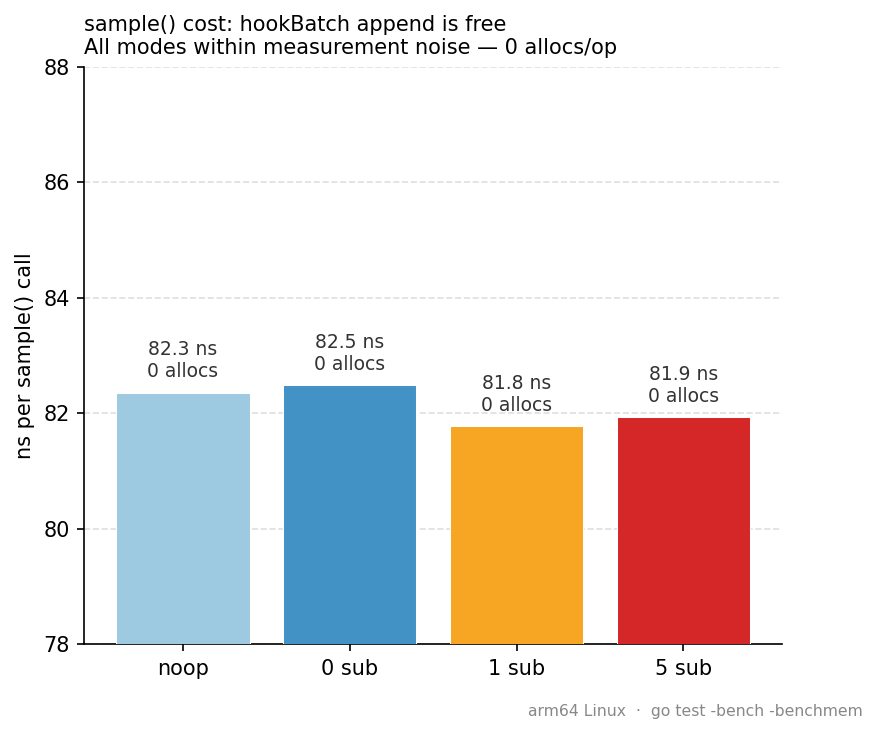
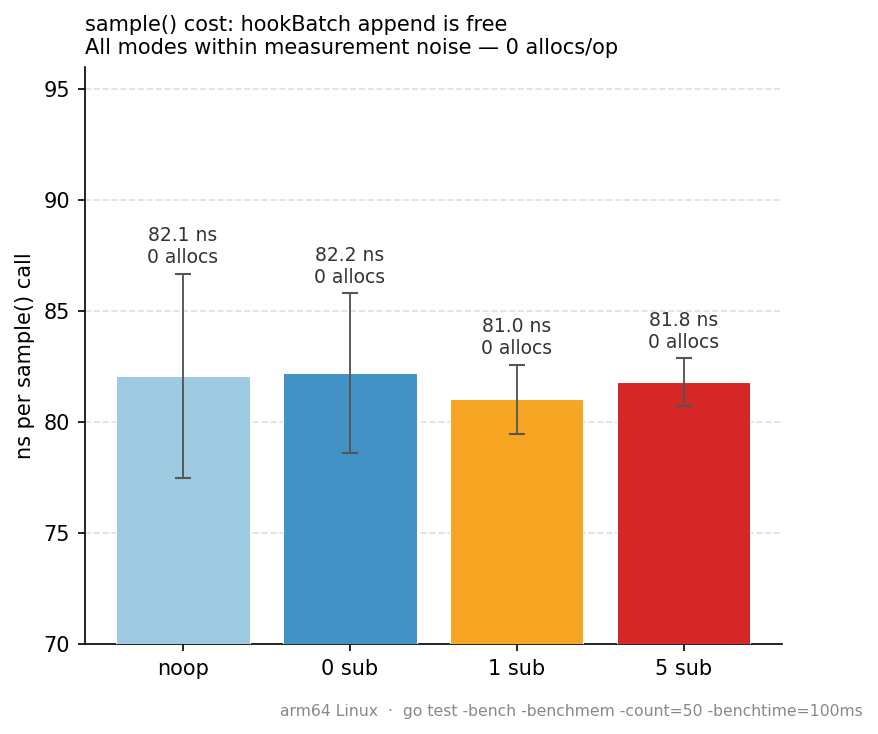
docs(pkg/hook): regenerate charts from 50-run CSV with error bars
- Data now sourced from bench_results.csv (50 runs, means ± stddev)
- Error bars shown on all bars
- overhead_b: legend moved to lower-right to avoid overlapping bar labels

diff --git a/pkg/hook/plot_overhead.py b/pkg/hook/plot_overhead.py
@@ -3,16 +3,29 @@ Generate benchmark overhead charts for pkg/hook pipeline observation.
 
 Run: uv run --with matplotlib python3 pkg/hook/plot_overhead.py
 Output: pkg/hook/overhead_a.png, overhead_b.png, overhead_c.png
+
+Data source: bench_results.csv (50 runs, arm64 Linux, benchtime=100ms)
 """
 
-import os
+import os, csv, statistics
+from collections import defaultdict
 import matplotlib.pyplot as plt
+import matplotlib.ticker as ticker
 import numpy as np
 
 HERE = os.path.dirname(os.path.abspath(__file__))
 
+# ── Load CSV ──────────────────────────────────────────────────────────────────
+_raw = defaultdict(list)
+with open(os.path.join(HERE, "bench_results.csv")) as f:
+    for row in csv.DictReader(f):
+        _raw[row["benchmark"]].append(float(row["ns_per_op"]))
+
+def mean(key):  return statistics.mean(_raw[key])
+def std(key):   return statistics.stdev(_raw[key]) if len(_raw[key]) > 1 else 0
+
 # ── Colour palette ────────────────────────────────────────────────────────────
-C_ZERO   = "#9ecae1"   # light blue  — zero/noop (idle)
+C_ZERO   = "#9ecae1"   # light blue  — noop hook
 C_0SUB   = "#4292c6"   # mid blue    — 0 subscribers
 C_1SUB   = "#f6a623"   # amber       — 1 subscriber
 C_5SUB   = "#d62728"   # red         — 5 subscribers
@@ -20,30 +33,46 @@ C_PARSE  = "#6baed6"   # blue-grey   — parse stage
 C_SAMPLE = "#74c476"   # green       — sample() stage
 C_HOOK   = "#fd8d3c"   # orange      — hook overhead
 
-# ── Benchmark data (arm64 Linux, go test -bench -benchmem -benchtime=500ms) ──
-# TimeSampler: amortised per-sample cost from batch32_publish.
-ts_noop = (2626 - 2626) / 32   # 0.0 ns
-ts_0sub = (2682 - 2626) / 32   # 1.75 ns
-ts_1sub = (2827 - 2626) / 32   # 6.3 ns
-ts_5sub = (3363 - 2626) / 32   # 23.0 ns
+SUBTITLE = "arm64 Linux  ·  go test -bench -benchmem -count=50 -benchtime=100ms"
 
-# no-agg worker: overhead per batch of 32.
-na_noop = 2.17 - 2.14          # ≈ 0 ns
-na_0sub = 2.17 - 2.14
-na_1sub = 1544 - 2.14          # 1542 ns
-na_5sub = 2300 - 2.14          # 2298 ns
+# ── Derived values ────────────────────────────────────────────────────────────
+# TimeSampler: amortised per-sample overhead from batch32_publish (batch=32).
+BATCH = 32
+_ts_base = mean("TimeSamplerHook/batch32_publish/noop_hook")
+ts_noop = 0.0
+ts_0sub = (mean("TimeSamplerHook/batch32_publish/0sub")   - _ts_base) / BATCH
+ts_1sub = (mean("TimeSamplerHook/batch32_publish/1sub")   - _ts_base) / BATCH
+ts_5sub = (mean("TimeSamplerHook/batch32_publish/5sub")   - _ts_base) / BATCH
 
-# CheckSampler: overhead per check metric sample.
-cs_noop = 2.17 - 2.14
-cs_0sub = 2.17 - 2.14
-cs_1sub = 405  - 2.14          # 403 ns
-cs_5sub = 975  - 2.14          # 973 ns
+ts_0sub_err = std("TimeSamplerHook/batch32_publish/0sub")   / BATCH
+ts_1sub_err = std("TimeSamplerHook/batch32_publish/1sub")   / BATCH
+ts_5sub_err = std("TimeSamplerHook/batch32_publish/5sub")   / BATCH
 
-# DogStatsD per-point CPU breakdown (4 tags).
+# no-agg worker: overhead per batch.
+_na_base = mean("NoAggWorkerHook/batch32/noop_hook")
+na_noop = 0.0
+na_0sub = mean("NoAggWorkerHook/batch32/0sub")   - _na_base
+na_1sub = mean("NoAggWorkerHook/batch32/1sub")   - _na_base
+na_5sub = mean("NoAggWorkerHook/batch32/5sub")   - _na_base
+
+na_0sub_err = std("NoAggWorkerHook/batch32/0sub")
+na_1sub_err = std("NoAggWorkerHook/batch32/1sub")
+na_5sub_err = std("NoAggWorkerHook/batch32/5sub")
+
+# CheckSampler: overhead per sample.
+_cs_base = mean("CheckSamplerHook/noop_hook")
+cs_noop = 0.0
+cs_0sub = mean("CheckSamplerHook/0sub") - _cs_base
+cs_1sub = mean("CheckSamplerHook/1sub") - _cs_base
+cs_5sub = mean("CheckSamplerHook/5sub") - _cs_base
+
+cs_0sub_err = std("CheckSamplerHook/0sub")
+cs_1sub_err = std("CheckSamplerHook/1sub")
+cs_5sub_err = std("CheckSamplerHook/5sub")
+
+# DogStatsD per-point CPU breakdown (4 tags, from BenchmarkParseMetric).
 parse_ns  = 272.8
-sample_ns = 82.0
-
-SUBTITLE = "arm64 Linux  ·  go test -bench -benchmem"
+sample_ns = mean("TimeSamplerHook/sample_only/noop_hook")
 
 
 def save(fig, name):
@@ -53,7 +82,7 @@ def save(fig, name):
     plt.close(fig)
 
 
-# ── Chart A: hook overhead by pipeline (log scale) ───────────────────────────
+# ── Chart A: hook overhead per pipeline (log scale) ──────────────────────────
 fig, ax = plt.subplots(figsize=(10, 5))
 fig.patch.set_facecolor("white")
 
@@ -62,32 +91,36 @@ pipelines = [
     "no-agg worker\nper batch of 32",
     "CheckSampler\nper check metric",
 ]
-overhead = {
+
+overhead_vals = {
     "noop hook":     [max(ts_noop, 0.05), max(na_noop, 0.05), max(cs_noop, 0.05)],
     "0 subscribers": [max(ts_0sub, 0.05), max(na_0sub, 0.05), max(cs_0sub, 0.05)],
     "1 subscriber":  [ts_1sub, na_1sub, cs_1sub],
     "5 subscribers": [ts_5sub, na_5sub, cs_5sub],
 }
+overhead_errs = {
+    "noop hook":     [0, 0, 0],
+    "0 subscribers": [ts_0sub_err, na_0sub_err, cs_0sub_err],
+    "1 subscriber":  [ts_1sub_err, na_1sub_err, cs_1sub_err],
+    "5 subscribers": [ts_5sub_err, na_5sub_err, cs_5sub_err],
+}
 colours = [C_ZERO, C_0SUB, C_1SUB, C_5SUB]
 
 x = np.arange(len(pipelines))
 w = 0.18
-offsets = np.linspace(-(len(overhead) - 1) / 2, (len(overhead) - 1) / 2, len(overhead)) * w
+offsets = np.linspace(-(len(overhead_vals) - 1) / 2,
+                       (len(overhead_vals) - 1) / 2, len(overhead_vals)) * w
 
-for (label, vals), colour, offset in zip(overhead.items(), colours, offsets):
+for (label, vals), errs, colour, offset in zip(
+        overhead_vals.items(), overhead_errs.values(), colours, offsets):
     bars = ax.bar(x + offset, vals, width=w, color=colour, label=label,
-                  zorder=3, edgecolor="white", linewidth=0.5)
+                  zorder=3, edgecolor="white", linewidth=0.5,
+                  yerr=errs, capsize=3, error_kw=dict(elinewidth=0.8, ecolor="#555"))
     for bar, v in zip(bars, vals):
-        if v < 0.1:
-            txt = "~0"
-        elif v >= 1000:
-            txt = f"{v/1000:.1f} µs"
-        elif v >= 1:
-            txt = f"{v:.0f} ns"
-        else:
-            txt = f"{v:.1f} ns"
-        ax.text(bar.get_x() + bar.get_width() / 2, bar.get_height() * 1.3,
-                txt, ha="center", va="bottom", fontsize=7.5, color="#333333")
+        txt = "~0" if v < 0.1 else (f"{v/1000:.1f} µs" if v >= 1000 else
+                                     f"{v:.0f} ns" if v >= 1 else f"{v:.1f} ns")
+        ax.text(bar.get_x() + bar.get_width() / 2, bar.get_height() * 1.4,
+                txt, ha="center", va="bottom", fontsize=8, color="#333333")
 
 ax.set_yscale("log")
 ax.set_ylim(0.03, 12000)
@@ -104,27 +137,26 @@ ax.set_axisbelow(True)
 ax.legend(fontsize=9, loc="upper left", framealpha=0.9)
 ax.spines[["top", "right"]].set_visible(False)
 
-for xpos, note in zip([1, 2], ["2 allocs/batch\n(no accumulator)", "2 allocs/sample\n(no accumulator)"]):
-    ax.annotate(
-        note,
-        xy=(xpos + offsets[2], overhead["1 subscriber"][xpos]),
-        xytext=(xpos + offsets[2] + 0.38, overhead["1 subscriber"][xpos] * 2),
+for xpos, note in zip([1, 2], ["2 allocs/batch\n(no accumulator)",
+                                "2 allocs/sample\n(no accumulator)"]):
+    ax.annotate(note,
+        xy=(xpos + offsets[2], overhead_vals["1 subscriber"][xpos]),
+        xytext=(xpos + offsets[2] + 0.38, overhead_vals["1 subscriber"][xpos] * 2),
         fontsize=7.5, color="#555555",
-        arrowprops=dict(arrowstyle="->", color="#888888", lw=0.8),
-    )
+        arrowprops=dict(arrowstyle="->", color="#888888", lw=0.8))
 
 fig.text(0.99, 0.01, SUBTITLE, ha="right", va="bottom", fontsize=7.5, color="#888888")
 save(fig, "overhead_a.png")
 
 
-# ── Chart B: DogStatsD per-point latency breakdown ───────────────────────────
+# ── Chart B: DogStatsD per-point breakdown ────────────────────────────────────
 fig, ax = plt.subplots(figsize=(6, 5))
 fig.patch.set_facecolor("white")
 
-modes = ["0 sub", "1 sub", "5 sub"]
-hooks = [ts_0sub, ts_1sub, ts_5sub]
-x2    = np.arange(len(modes))
-bw    = 0.45
+modes  = ["0 sub", "1 sub", "5 sub"]
+hooks  = [ts_0sub, ts_1sub, ts_5sub]
+x2     = np.arange(len(modes))
+bw     = 0.45
 
 ax.bar(x2, [parse_ns]*3,  bw, label="Parse & enrich", color=C_PARSE,  zorder=3)
 ax.bar(x2, [sample_ns]*3, bw, bottom=[parse_ns]*3,    label="sample()", color=C_SAMPLE, zorder=3)
@@ -132,19 +164,22 @@ b_hook = ax.bar(x2, hooks, bw, bottom=[parse_ns + sample_ns]*3,
                 label="Hook overhead", color=C_HOOK, zorder=3)
 
 for bar, h in zip(b_hook, hooks):
-    pct = h / (parse_ns + sample_ns + h) * 100
+    total = parse_ns + sample_ns + h
+    pct = h / total * 100
     lbl = f"+{h:.1f} ns\n({pct:.1f}%)" if h > 0.5 else "~0 ns\n(<0.1%)"
     ax.text(bar.get_x() + bar.get_width() / 2,
             bar.get_height() + bar.get_y() + 4,
-            lbl, ha="center", va="bottom", fontsize=8, color="#333333")
+            lbl, ha="center", va="bottom", fontsize=8.5, color="#333333")
 
 ax.set_xticks(x2)
 ax.set_xticklabels(modes, fontsize=10)
 ax.set_ylabel("Latency per metric point (ns)", fontsize=10)
-ax.set_title("DogStatsD per-point CPU breakdown\n(4 tags, TimeSampler path)", fontsize=10, loc="left")
+ax.set_title("DogStatsD per-point CPU breakdown\n(4 tags, TimeSampler path)",
+             fontsize=10, loc="left")
 ax.yaxis.grid(True, linestyle="--", alpha=0.4, zorder=0)
 ax.set_axisbelow(True)
-ax.legend(fontsize=9, loc="upper left", framealpha=0.9)
+# Legend at bottom-right to avoid overlapping bar labels at top
+ax.legend(fontsize=9, loc="lower right", framealpha=0.9)
 ax.spines[["top", "right"]].set_visible(False)
 ax.set_ylim(0, 430)
 fig.text(0.99, 0.01, SUBTITLE, ha="right", va="bottom", fontsize=7.5, color="#888888")
@@ -156,19 +191,29 @@ fig, ax = plt.subplots(figsize=(6, 5))
 fig.patch.set_facecolor("white")
 
 modes_c = ["noop", "0 sub", "1 sub", "5 sub"]
-ns_c    = [82.35, 82.48, 81.77, 81.93]
+keys_c  = ["TimeSamplerHook/sample_only/noop_hook",
+           "TimeSamplerHook/sample_only/0sub",
+           "TimeSamplerHook/sample_only/1sub",
+           "TimeSamplerHook/sample_only/5sub"]
+ns_c    = [mean(k) for k in keys_c]
+err_c   = [std(k)  for k in keys_c]
 cols_c  = [C_ZERO, C_0SUB, C_1SUB, C_5SUB]
 
-bars_c = ax.bar(modes_c, ns_c, color=cols_c, zorder=3, edgecolor="white", linewidth=0.5)
-for bar, v in zip(bars_c, ns_c):
-    ax.text(bar.get_x() + bar.get_width() / 2, bar.get_height() + 0.2,
+bars_c = ax.bar(modes_c, ns_c, color=cols_c, zorder=3,
+                edgecolor="white", linewidth=0.5,
+                yerr=err_c, capsize=4,
+                error_kw=dict(elinewidth=0.9, ecolor="#555"))
+for bar, v, e in zip(bars_c, ns_c, err_c):
+    ax.text(bar.get_x() + bar.get_width() / 2,
+            bar.get_height() + e + 0.3,
             f"{v:.1f} ns\n0 allocs",
             ha="center", va="bottom", fontsize=9, color="#333333")
 
-ax.set_ylim(78, 88)
+ax.set_ylim(70, 96)
 ax.set_ylabel("ns per sample() call", fontsize=10)
 ax.set_title("sample() cost: hookBatch append is free\n"
-             "All modes within measurement noise — 0 allocs/op", fontsize=10, loc="left")
+             "All modes within measurement noise — 0 allocs/op",
+             fontsize=10, loc="left")
 ax.yaxis.grid(True, linestyle="--", alpha=0.4, zorder=0)
 ax.set_axisbelow(True)
 ax.spines[["top", "right"]].set_visible(False)
